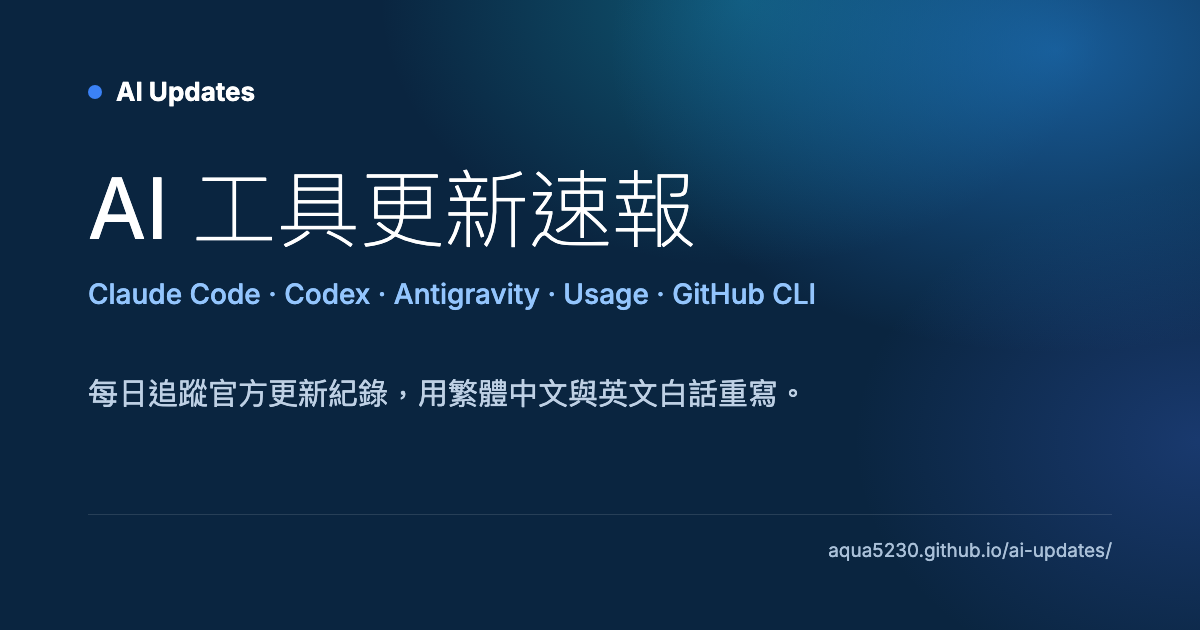
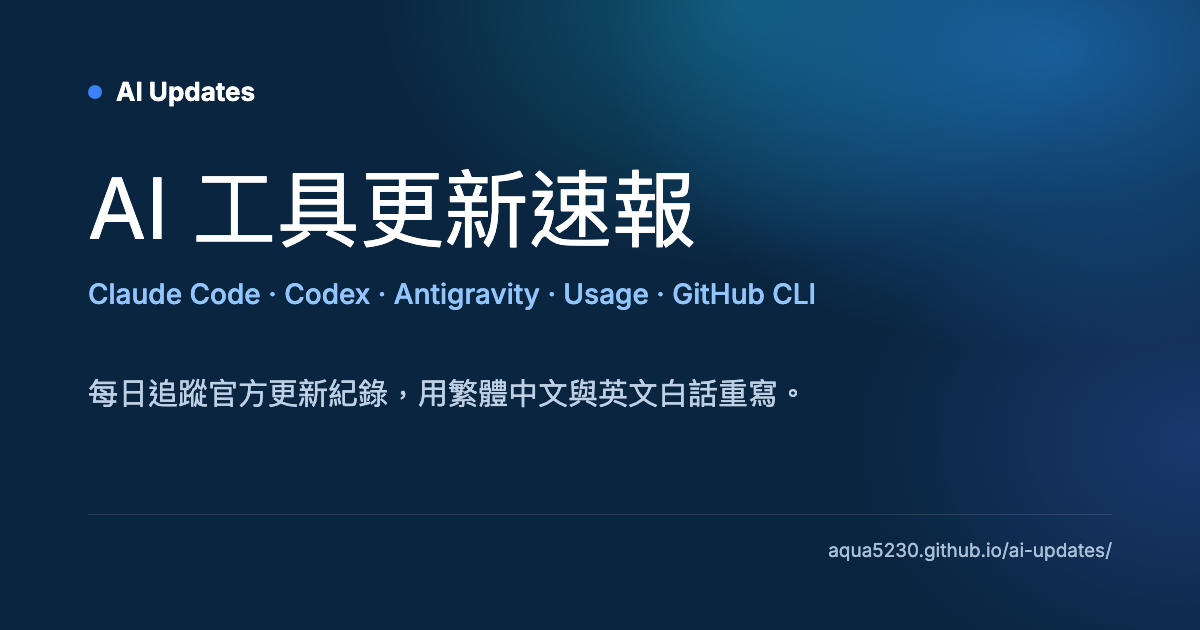
docs(design): restore DESIGN.md front matter to the design.md schema; og title at weight 400
The redesign rewrote the front matter as a custom `tokens` map, which the
design.md linter silently ignores. Put colors, typography, rounded, spacing
and components back in the recognized schema with the new blue values
(lint: 0 errors). Also render the share card's Chinese headline at 400
instead of 300 so the CJK strokes don't thin out.

Changed region(s): [[0.1542, 0.2714, 0.5858, 0.3921]]

diff --git a/docs/og-card.html b/docs/og-card.html
@@ -6,7 +6,7 @@
   <title>AI 工具更新速報</title>
   <style>
     @font-face{font-family:'Inter';font-weight:400 700;src:url(fonts/inter-latin.woff2) format("woff2")}
-    *{box-sizing:border-box}html,body{margin:0;width:1200px;height:630px;overflow:hidden}body{background:#0a2540;color:#bed0e4;font-family:"Inter","PingFang TC","Noto Sans TC",sans-serif}.card{width:1200px;height:630px;padding:76px 88px;position:relative;background:radial-gradient(ellipse 620px 420px at 88% 8%,oklch(0.62 0.16 250 / .55),transparent 72%),radial-gradient(ellipse 520px 380px at 62% 0%,oklch(0.70 0.12 215 / .35),transparent 70%),radial-gradient(ellipse 480px 360px at 100% 70%,oklch(0.55 0.18 265 / .30),transparent 72%)}.eyebrow{display:flex;align-items:center;gap:14px;color:#ffffff;font-size:26px;font-weight:700}.eyebrow::before{content:"";width:14px;height:14px;border-radius:50%;background:#3b82f6}h1{margin:56px 0 22px;color:#ffffff;font:300 84px/1.1 "Inter","PingFang TC","Noto Sans TC",sans-serif}.tools{color:#93c5fd;font-size:28px;font-weight:500}.description{margin:60px 0 0;max-width:900px;font:400 30px/1.5 "Inter","PingFang TC","Noto Sans TC",sans-serif}.url{position:absolute;right:88px;bottom:68px;color:#aac0d8;font-size:19px}.line{position:absolute;left:88px;right:88px;bottom:115px;height:1px;background:rgb(255 255 255 / 12%)}
+    *{box-sizing:border-box}html,body{margin:0;width:1200px;height:630px;overflow:hidden}body{background:#0a2540;color:#bed0e4;font-family:"Inter","PingFang TC","Noto Sans TC",sans-serif}.card{width:1200px;height:630px;padding:76px 88px;position:relative;background:radial-gradient(ellipse 620px 420px at 88% 8%,oklch(0.62 0.16 250 / .55),transparent 72%),radial-gradient(ellipse 520px 380px at 62% 0%,oklch(0.70 0.12 215 / .35),transparent 70%),radial-gradient(ellipse 480px 360px at 100% 70%,oklch(0.55 0.18 265 / .30),transparent 72%)}.eyebrow{display:flex;align-items:center;gap:14px;color:#ffffff;font-size:26px;font-weight:700}.eyebrow::before{content:"";width:14px;height:14px;border-radius:50%;background:#3b82f6}h1{margin:56px 0 22px;color:#ffffff;font:400 84px/1.1 "Inter","PingFang TC","Noto Sans TC",sans-serif}.tools{color:#93c5fd;font-size:28px;font-weight:500}.description{margin:60px 0 0;max-width:900px;font:400 30px/1.5 "Inter","PingFang TC","Noto Sans TC",sans-serif}.url{position:absolute;right:88px;bottom:68px;color:#aac0d8;font-size:19px}.line{position:absolute;left:88px;right:88px;bottom:115px;height:1px;background:rgb(255 255 255 / 12%)}
   </style>
 </head>
 <body><main class="card"><div class="eyebrow">AI Updates</div><h1>AI 工具更新速報</h1><div class="tools">Claude Code · Codex · Antigravity · Usage · GitHub CLI</div><p class="description">每日追蹤官方更新紀錄，用繁體中文與英文白話重寫。</p><div class="line"></div><div class="url">aqua5230.github.io/ai-updates/</div></main></body>

diff --git a/DESIGN.md b/DESIGN.md
@@ -1,89 +1,157 @@
 ---
 version: alpha
 name: AI Updates
-description: AI 工具更新速報的藍色柔光版面規格；首頁、版本頁與 404 共用主題色。
-tokens:
-  size:
-    --fs-2xs: ".6875rem"
-    --fs-xs: ".75rem"
-    --fs-sm: ".8125rem"
-    --fs-base: ".9375rem"
-    --fs-md: "1rem"
-    --fs-lg: "1.125rem"
-    --fs-xl: "1.375rem"
-    --control-sm: "32px"
-    --control-md: "36px"
-    --control-lg: "44px"
-  light:
-    --bg-color: "#ffffff"
-    --sidebar-bg: "#ffffff"
-    --card-bg: "#ffffff"
-    --code-bg: "#f6f9fc"
-    --soft-surface: "#f6f9fc"
-    --border-color: "#d8e3ee"
-    --text-color: "#425466"
-    --text-bright: "#061b31"
-    --muted-color: "#586a82"
-    --accent-color: "#2563eb"
-    --accent-contrast: "#ffffff"
-    --accent-glow: "#eff6ff"
-    --link-color: "#2156ca"
-    --tag-new: "#087a56"
-    --tag-fix: "#b13f43"
-    --tag-perf: "#925b08"
-    --item-rule: "#e5edf5"
-    --chip-bg: "#f6f9fc"
-    --analogy-text: "#425466"
-    --analogy-start: "oklch(0.77 0.11 255 / .16)"
-    --analogy-end: "oklch(0.80 0.09 205 / .13)"
-    --analogy-border: "#d8e3ee"
-    --badge-bg: "#ffffff"
-    --glow-wash-1: "rgb(34 211 238 / 17%)"
-    --glow-wash-2: "rgb(56 140 255 / 15%)"
-    --glow-wash-3: "rgb(99 102 241 / 18%)"
-    --glass-fill: "rgb(255 255 255 / 70%)"
-    --glass-border: "#d8e3ee"
-    --glass-shadow: "0 10px 28px rgb(10 37 64 / 8%)"
-    --selected-gradient: "linear-gradient(110deg,#2563eb,#0369a1)"
-    --serial-1: "#1575a2"
-    --serial-2: "#2563c9"
-    --serial-3: "#4158bc"
-    --font-ui: "\"Inter\",-apple-system,BlinkMacSystemFont,\"Segoe UI\",sans-serif"
-  dark:
-    --bg-color: "#0a2540"
-    --sidebar-bg: "#0a2540"
-    --card-bg: "#0f3056"
-    --code-bg: "#102e4e"
-    --soft-surface: "#173b62"
-    --border-color: "#31516f"
-    --text-color: "#bed0e4"
-    --text-bright: "#ffffff"
-    --muted-color: "#aac0d8"
-    --accent-color: "#2563eb"
-    --accent-contrast: "#ffffff"
-    --accent-glow: "#243f75"
-    --link-color: "#93c5fd"
-    --tag-new: "#85d9bc"
-    --tag-fix: "#ffa99e"
-    --tag-perf: "#f9cf82"
-    --item-rule: "rgb(255 255 255 / 10%)"
-    --chip-bg: "#173b62"
-    --analogy-text: "#bed0e4"
-    --analogy-start: "oklch(0.51 0.16 255 / .22)"
-    --analogy-end: "oklch(0.55 0.10 205 / .16)"
-    --analogy-border: "rgb(255 255 255 / 12%)"
-    --badge-bg: "rgb(255 255 255 / 6%)"
-    --glow-wash-1: "rgb(34 211 238 / 27%)"
-    --glow-wash-2: "rgb(56 140 255 / 29%)"
-    --glow-wash-3: "rgb(99 102 241 / 38%)"
-    --glass-fill: "rgb(10 37 64 / 69%)"
-    --glass-border: "rgb(255 255 255 / 18%)"
-    --glass-shadow: "0 12px 36px rgb(0 12 34 / 18%)"
-    --selected-gradient: "linear-gradient(110deg,#2563eb,#0369a1)"
-    --serial-1: "#50c7f1"
-    --serial-2: "#4dacf6"
-    --serial-3: "#6d9aff"
-    --font-ui: "\"Inter\",-apple-system,BlinkMacSystemFont,\"Segoe UI\",sans-serif"
+description: AI 工具更新速報的藍色柔光版面規格；首頁、版本頁與 404 共用字級、控制項及色票。
+colors:
+  background: "#ffffff"
+  sidebar: "#ffffff"
+  card: "rgb(255 255 255 / 70%)"
+  code: "#f6f9fc"
+  soft-surface: "#f6f9fc"
+  border: "#d8e3ee"
+  item-rule: "#e5edf5"
+  text: "#425466"
+  text-bright: "#061b31"
+  muted: "#586a82"
+  primary: "#2563eb"
+  on-primary: "#ffffff"
+  primary-soft: "#eff6ff"
+  link: "#2156ca"
+  tag-new: "#087a56"
+  tag-fix: "#b13f43"
+  tag-perf: "#925b08"
+  serial-start: "#1575a2"
+  serial-mid: "#2563c9"
+  serial-end: "#4158bc"
+  background-dark: "#0a2540"
+  sidebar-dark: "#0a2540"
+  card-dark: "rgb(10 37 64 / 69%)"
+  code-dark: "#102e4e"
+  soft-surface-dark: "#173b62"
+  border-dark: "#31516f"
+  text-dark: "#bed0e4"
+  text-bright-dark: "#ffffff"
+  muted-dark: "#aac0d8"
+  primary-dark: "#2563eb"
+  on-primary-dark: "#ffffff"
+  primary-soft-dark: "#243f75"
+  link-dark: "#93c5fd"
+  tag-new-dark: "#85d9bc"
+  tag-fix-dark: "#ffa99e"
+  tag-perf-dark: "#f9cf82"
+  serial-start-dark: "#50c7f1"
+  serial-mid-dark: "#4dacf6"
+  serial-end-dark: "#6d9aff"
+typography:
+  display:
+    fontFamily: Inter
+    fontSize: 6rem
+    fontWeight: 300
+    lineHeight: 1
+  serial:
+    fontFamily: Inter
+    fontSize: 2.25rem
+    fontWeight: 300
+    lineHeight: 1
+  title:
+    fontFamily: Inter
+    fontSize: 1.75rem
+    fontWeight: 600
+    lineHeight: 1.4
+  heading:
+    fontFamily: Inter
+    fontSize: 1.125rem
+    fontWeight: 600
+  body-lead:
+    fontFamily: Inter
+    fontSize: 1rem
+    fontWeight: 400
+    lineHeight: 1.8
+  body:
+    fontFamily: Inter
+    fontSize: 0.9375rem
+    fontWeight: 400
+    lineHeight: 1.8
+  ui:
+    fontFamily: Inter
+    fontSize: 0.8125rem
+    fontWeight: 500
+  label:
+    fontFamily: Inter
+    fontSize: 0.75rem
+    fontWeight: 500
+  caption:
+    fontFamily: Inter
+    fontSize: 0.6875rem
+    fontWeight: 500
+rounded:
+  sm: 4px
+  md: 8px
+  code: 12px
+  soft: 14px
+  card: 20px
+  full: 999px
+spacing:
+  2xs: 0.25rem
+  xs: 0.5rem
+  sm: 0.75rem
+  md: 1rem
+  lg: 1.5rem
+  xl: 2rem
+components:
+  card:
+    backgroundColor: "{colors.card}"
+    rounded: "{rounded.card}"
+    padding: 2rem
+  analogy:
+    textColor: "{colors.text}"
+    typography: "{typography.body}"
+    rounded: "{rounded.soft}"
+    padding: 1rem
+  badge-new:
+    textColor: "{colors.tag-new}"
+    typography: "{typography.label}"
+    rounded: "{rounded.full}"
+  badge-fix:
+    textColor: "{colors.tag-fix}"
+    typography: "{typography.label}"
+    rounded: "{rounded.full}"
+  badge-perf:
+    textColor: "{colors.tag-perf}"
+    typography: "{typography.label}"
+    rounded: "{rounded.full}"
+  filter-chip:
+    backgroundColor: "{colors.soft-surface}"
+    typography: "{typography.label}"
+    rounded: "{rounded.full}"
+    height: 32px
+  filter-chip-active:
+    backgroundColor: "{colors.primary}"
+    textColor: "{colors.on-primary}"
+    rounded: "{rounded.full}"
+  tab-button:
+    typography: "{typography.label}"
+    rounded: "{rounded.full}"
+    height: 44px
+  tab-button-active:
+    backgroundColor: "{colors.primary}"
+    textColor: "{colors.on-primary}"
+    rounded: "{rounded.full}"
+  tool-button-active:
+    backgroundColor: "{colors.primary}"
+    textColor: "{colors.on-primary}"
+    typography: "{typography.ui}"
+    rounded: "{rounded.full}"
+    height: 44px
+  search-input:
+    backgroundColor: "{colors.card}"
+    typography: "{typography.body}"
+    rounded: "{rounded.md}"
+    height: 44px
+  small-button:
+    typography: "{typography.label}"
+    rounded: "{rounded.full}"
+    height: 32px
 ---
 # AI Updates 設計規格
 
